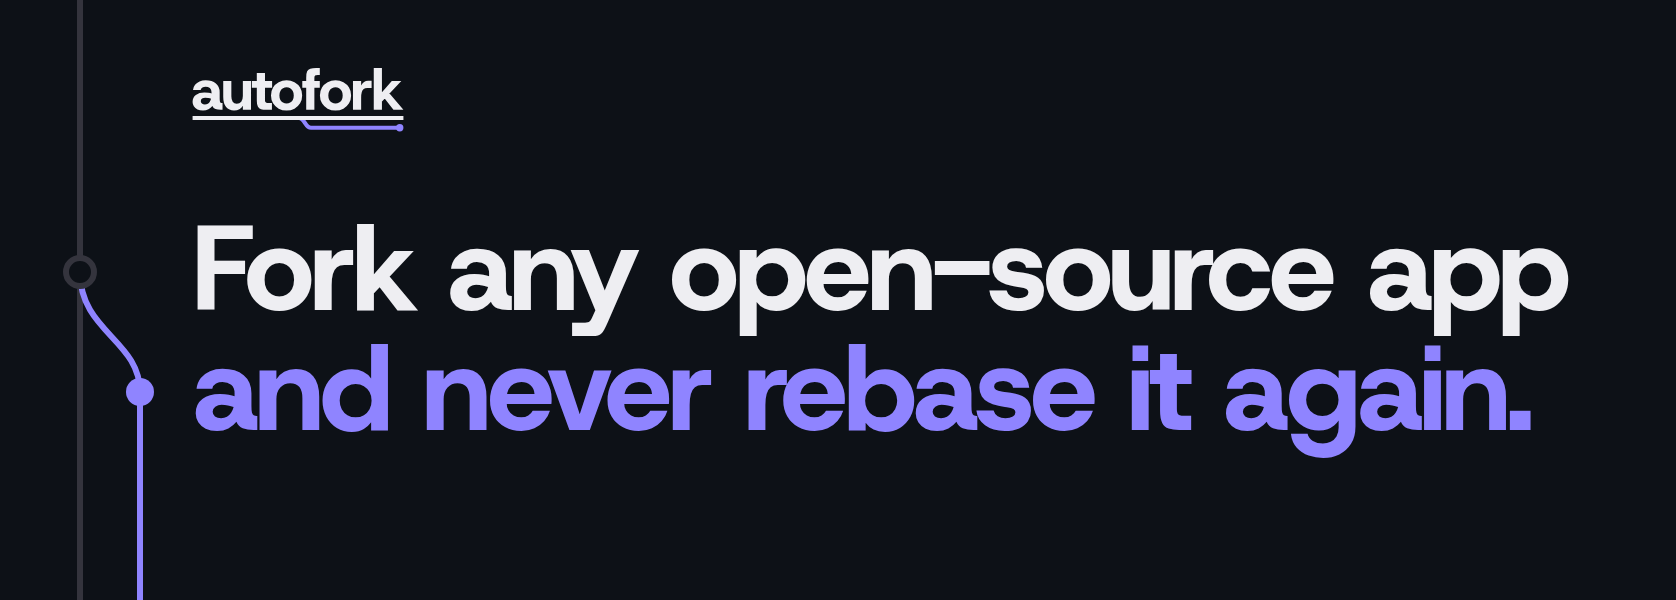
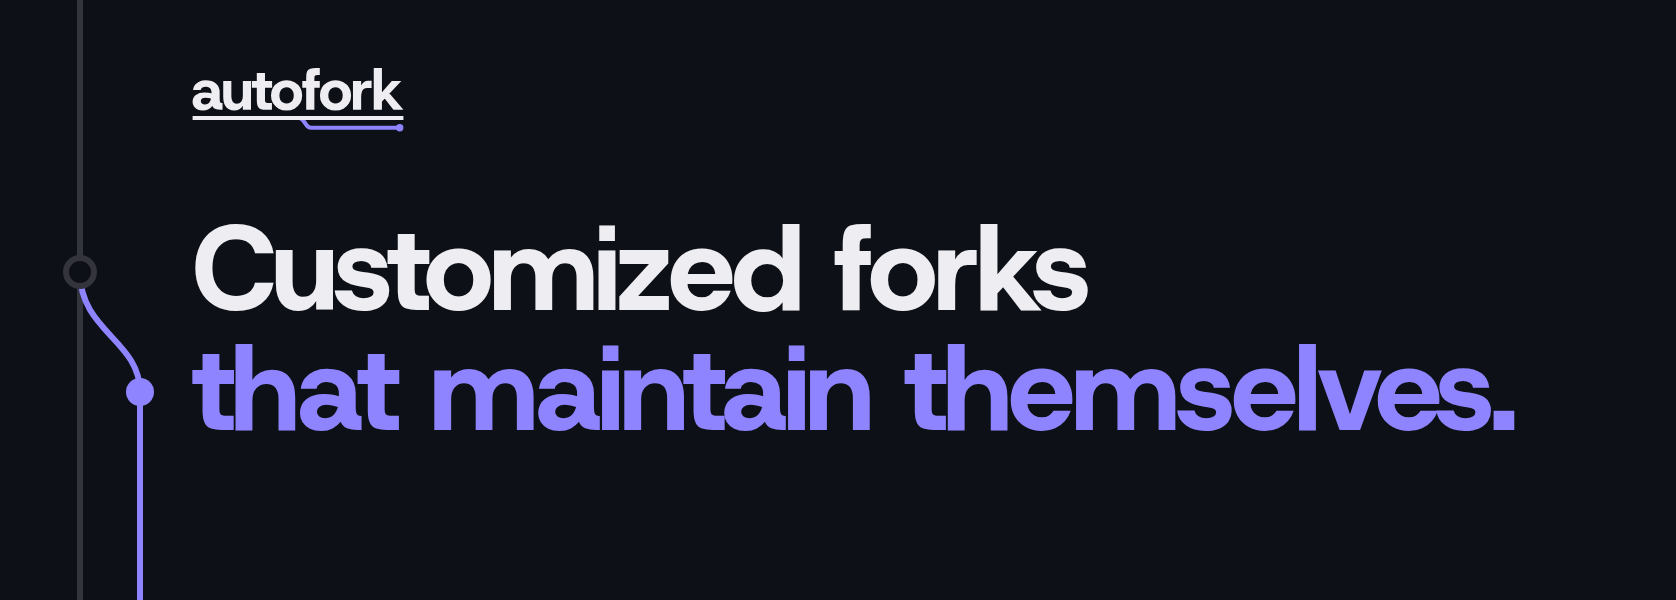
README, --help and package description lead with Bassim's new pitch: "Customized forks that maintain themselves." over "Personal forks of open-source apps that auto-track upstream.", README header re-rendered
Claude-Session: https://claude.ai/code/session_01LaCvuBXpr4oFdToWP6F1Dg

Changed region(s): [[0.0931, 0.36, 0.9618, 0.78]]

diff --git a/src/autofork.ts b/src/autofork.ts
@@ -577,8 +577,8 @@ async function status(root: string) {
   if (drift.length) say(`not in any patch yet:\n  ${drift.join("\n  ")}`);
 }
 
-const USAGE = `autofork: Fork any open-source app and never rebase it again.
-Personal forks of open-source apps that update themselves.
+const USAGE = `autofork: Customized forks that maintain themselves.
+Personal forks of open-source apps that auto-track upstream.
 
 Usage:
   autofork fork <owner/repo>    fork it on GitHub, set it up and push

diff --git a/dist/autofork.js b/dist/autofork.js
@@ -582,8 +582,8 @@ async function status(root) {
   ${drift.join(`
   `)}`);
 }
-var USAGE = `autofork: Fork any open-source app and never rebase it again.
-Personal forks of open-source apps that update themselves.
+var USAGE = `autofork: Customized forks that maintain themselves.
+Personal forks of open-source apps that auto-track upstream.
 
 Usage:
   autofork fork <owner/repo>    fork it on GitHub, set it up and push

diff --git a/README.md b/README.md
@@ -1,9 +1,9 @@
 <a href="https://autofork.com"><picture>
   <source media="(prefers-color-scheme: dark)" srcset="assets/header-dark.png">
-  <img alt="autofork: Fork any open-source app and never rebase it again." src="assets/header-light.png">
+  <img alt="autofork: Customized forks that maintain themselves." src="assets/header-light.png">
 </picture></a>
 
-Personal forks of open-source apps that update themselves. Each change you make is saved in plain words, in a `PATCH.md`. On every upstream release your changes go back on top, and when one no longer applies, an agent rebuilds it from what you wrote, in your fork's own GitHub Actions, on your Claude or ChatGPT plan.
+Personal forks of open-source apps that auto-track upstream. Each change you make is saved in plain words, in a `PATCH.md`. On every upstream release your changes go back on top, and when one no longer applies, an agent rebuilds it from what you wrote, in your fork's own GitHub Actions, on your Claude or ChatGPT plan.
 
 Fork something at [autofork.com](https://autofork.com), or from a terminal:
 
@@ -107,8 +107,8 @@ Your agent then knows how to fork a repo and keep its changes as patches.
 
 ```
 $ npx github:AVGVSTVS96/autofork --help
-autofork: Fork any open-source app and never rebase it again.
-Personal forks of open-source apps that update themselves.
+autofork: Customized forks that maintain themselves.
+Personal forks of open-source apps that auto-track upstream.
 
 Usage:
   autofork fork <owner/repo>    fork it on GitHub, set it up and push
